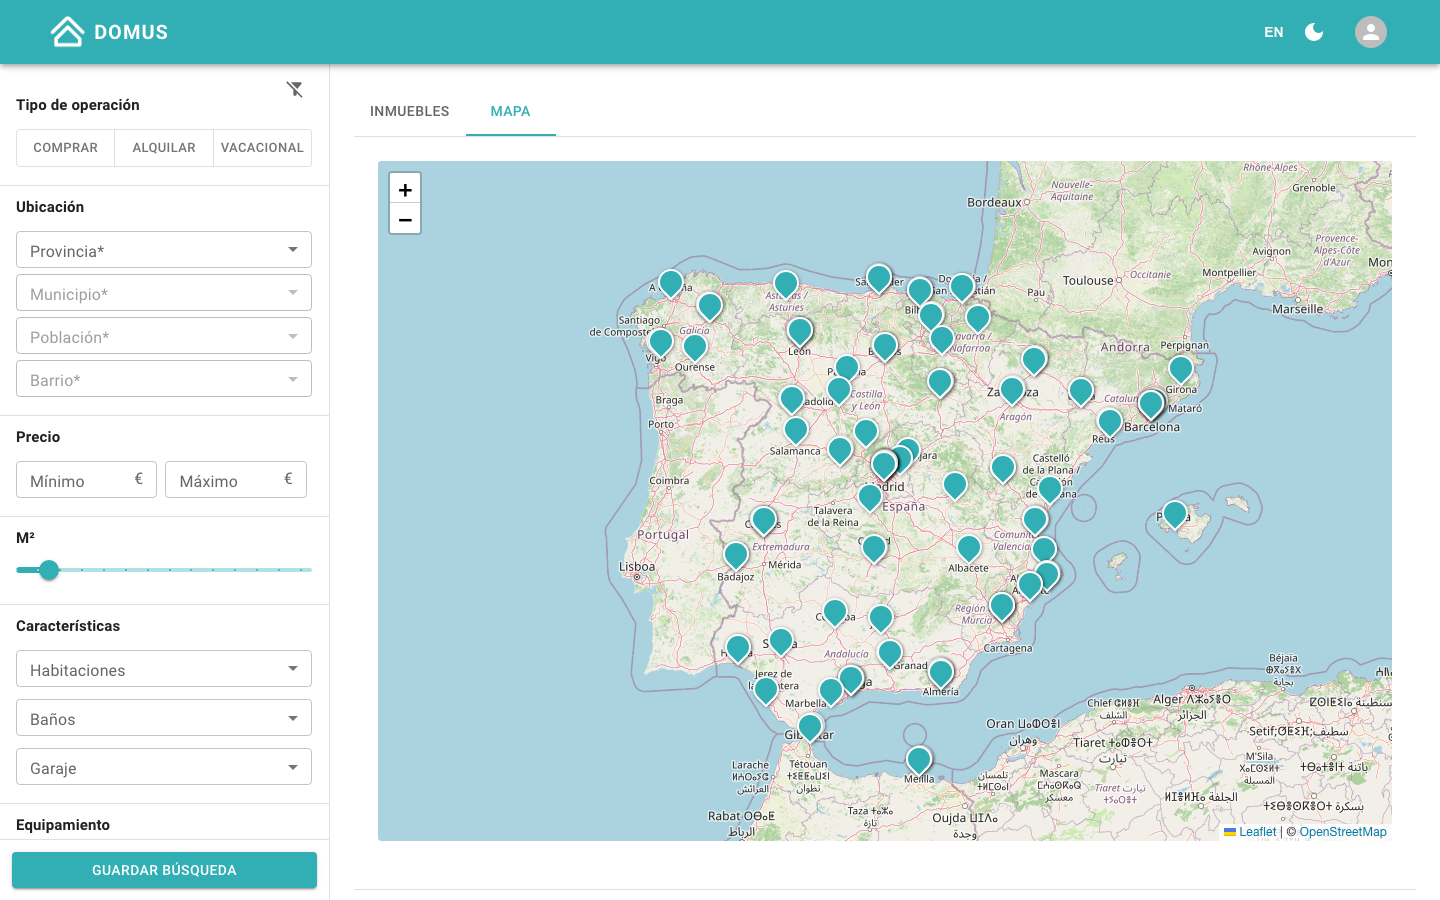
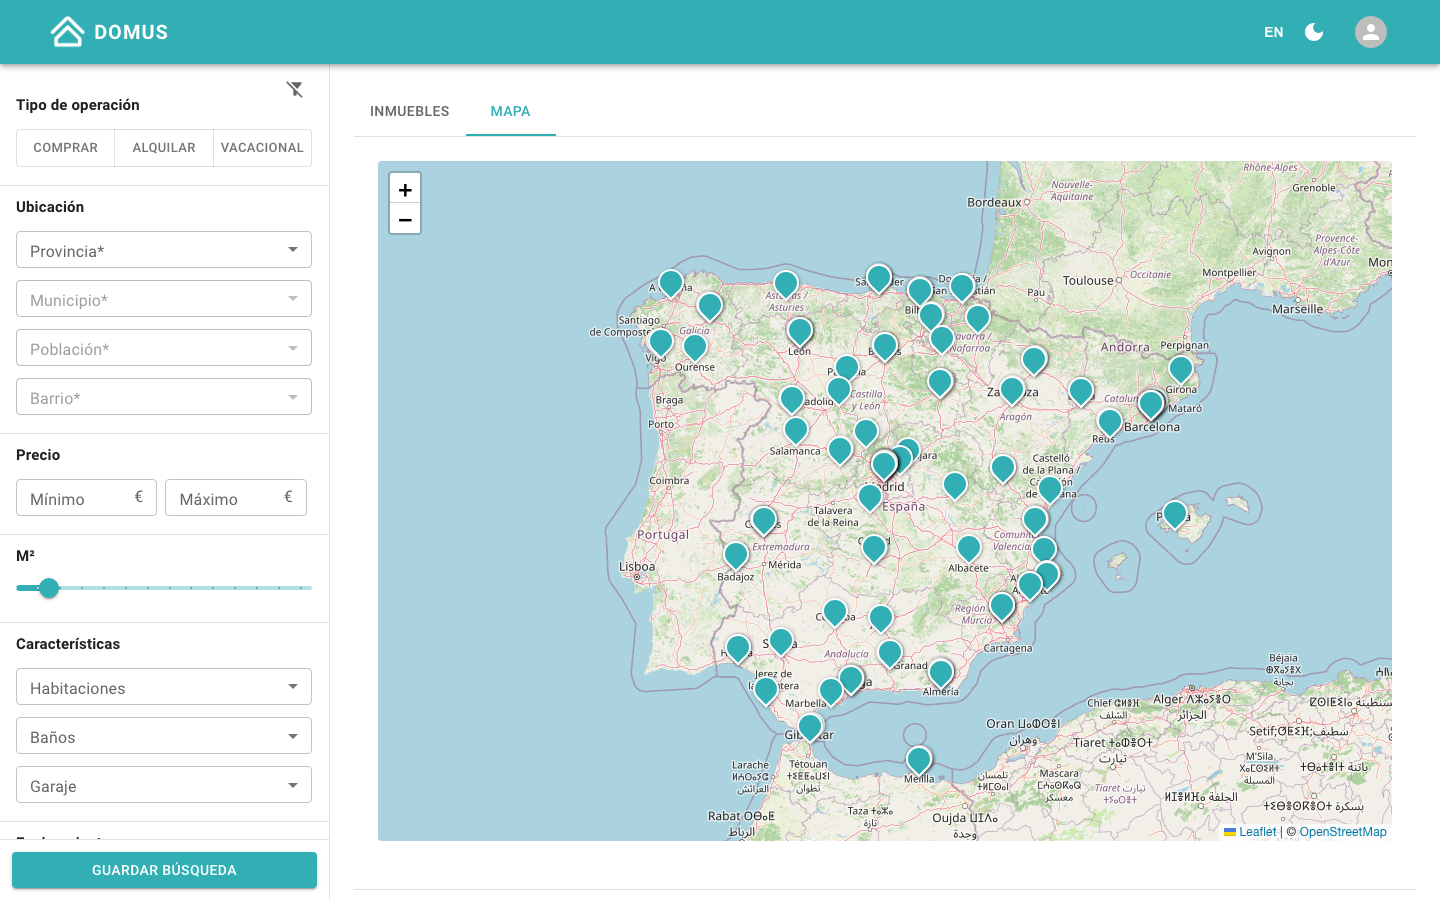
feat: filtro de operación múltiple y ajustes finales de móvil
- Comprar/Alquilar/Vacacional admite selección múltiple; al ser un
  criterio excluyente queda fuera del cálculo de relevancia y el modo
  'mayor relevancia' lo sigue aplicando como filtro duro
- El % de coincidencia solo aparece con criterios reales activos
- Chips de la card con salto de línea propio; la fecha conserva su
  esquina superior derecha
- Avatar de la barra con margen simétrico al del icono de filtros
- Menú de cuenta: iconos unificados y 'Publicar inmueble' bajo Mi perfil
- Capturas de documentación actualizadas

diff --git a/frontend/src/components/HomePage/Header/Header.jsx b/frontend/src/components/HomePage/Header/Header.jsx
@@ -3,6 +3,9 @@ import { useNavigate } from 'react-router-dom';
 import { styled } from '@mui/material/styles';
 import { AppBar, Toolbar, IconButton, Typography, Menu, MenuItem, Avatar, Box, Divider, ListItemIcon, Tooltip, Container } from '@mui/material';
 import LogoutIcon from '@mui/icons-material/Logout';
+import LoginIcon from '@mui/icons-material/Login';
+import PersonIcon from '@mui/icons-material/Person';
+import PersonAddIcon from '@mui/icons-material/PersonAdd';
 import MenuIcon from '@mui/icons-material/Menu';
 import { AuthContext } from '../../Contexts/AuthContext';
 import HomeIcon from '@mui/icons-material/Home';
@@ -109,7 +112,8 @@ export const Header = ({component}) => {
             <IconButton
               onClick={handleClick}
               size="small"
-              sx={{ ml: 2 }}
+              // Mirrors the left inset of the drawer toggle on mobile
+              sx={{ ml: 2, mr: { xs: '-12px', sm: 0 } }}
               aria-controls={open ? 'account-menu' : undefined}
               aria-haspopup="true"
               aria-expanded={open ? 'true' : undefined}
@@ -160,14 +164,6 @@ export const Header = ({component}) => {
           anchorOrigin={{ horizontal: 'right', vertical: 'bottom' }}
         >
 
-          {/* Publishing entry mirrors the floating action button; guests are
-              routed to the login first */}
-          <MenuItem onClick={() => navigate(isLoggedIn ? "/addhousing" : "/login")}>
-            <ListItemIcon>
-              <AddIcon fontSize="small" />
-            </ListItemIcon>
-            {t('publishProperty')}
-          </MenuItem>
           <MenuItem onClick={toggleLanguage} sx={{ display: { xs: 'flex', sm: 'none' } }}>
             <ListItemIcon>
               <LanguageIcon fontSize="small" />
@@ -186,8 +182,19 @@ export const Header = ({component}) => {
               <MenuItem onClick={() => (
                 navigate("/userprofile")
               )}>
-                <Avatar sx={{ width: 32, height: 32 }} src={profile.profilePicture} /> {t('myProfile')}
+                <ListItemIcon>
+                  <PersonIcon fontSize="small" />
+                </ListItemIcon>
+                {t('myProfile')}
               </MenuItem>
+          {/* Publishing entry mirrors the floating action button; guests are
+              routed to the login first */}
+          <MenuItem onClick={() => navigate(isLoggedIn ? "/addhousing" : "/login")}>
+            <ListItemIcon>
+              <AddIcon fontSize="small" />
+            </ListItemIcon>
+            {t('publishProperty')}
+          </MenuItem>
               <Divider />
               <MenuItem onClick={logout}>
                 <ListItemIcon>
@@ -205,8 +212,19 @@ export const Header = ({component}) => {
                 Iniciar sesión
               </MenuItem>
               <MenuItem onClick={() => navigate("/register")}>
-                <Avatar sx={{ width: 32, height: 32 }} /> {t('register')}
+                <ListItemIcon>
+                  <PersonAddIcon fontSize="small" />
+                </ListItemIcon>
+                {t('register')}
               </MenuItem>
+          {/* Publishing entry mirrors the floating action button; guests are
+              routed to the login first */}
+          <MenuItem onClick={() => navigate(isLoggedIn ? "/addhousing" : "/login")}>
+            <ListItemIcon>
+              <AddIcon fontSize="small" />
+            </ListItemIcon>
+            {t('publishProperty')}
+          </MenuItem>
             </div>
           )}
         </Menu>

diff --git a/frontend/src/components/MainView/HousingList/Card/HouseCard.jsx b/frontend/src/components/MainView/HousingList/Card/HouseCard.jsx
@@ -88,16 +88,18 @@ export default function HouseCard({ _id, user, showRealEstateLogo, province, mun
         <span style={{ height: '100%', display: 'flex', flexDirection: 'column', justifyContent: 'space-between' }}>
           {/* TOP, CENTER */}
           <Card style={{ flex: '1 0 auto', display: 'flex', flexDirection: 'column', margin: '0px 0px 8px 0px' }}>
-            <div style={{ display: 'flex', alignItems: 'center', justifyContent: 'space-between', margin: '10px 10px 8px 5px' }}>
-              <div style={{ display: 'inline-flex' }}>
+            {/* Chips wrap onto a second row when needed; the date keeps its
+                top-right spot and never gets pushed out */}
+            <div style={{ display: 'flex', alignItems: 'flex-start', justifyContent: 'space-between', margin: '10px 10px 8px 5px' }}>
+              <div style={{ display: 'flex', flexWrap: 'wrap', gap: '6px' }}>
               {
                 <>
-                  <Chip label={t(`transaction.${transaction}`, {ns:"housing"})} color="primary" variant="contained" size="small" style={{ marginRight: '15px' }} />
-                  <Chip label={t(`type.${type}`, {ns:"housing"})} color="primary" variant="outlined" size="small" style={{ marginRight: '15px' }} />
-                  {pool ? <Chip label="Piscina" color="primary" variant="outlined" size="small" style={{ marginRight: '15px' }} />
-                    : terrace ? <Chip label="Terraza" color="primary" variant="outlined" size="small" style={{ marginRight: '15px' }} />
-                    : garden ? <Chip label="Jardín" color="primary" variant="outlined" size="small" style={{ marginRight: '15px' }} />
-                    : furnished ? <Chip label={t(`furnished.${furnished}`, {ns:"housing"})} color="primary" variant="outlined" size="small" style={{ marginRight: '15px' }} /> : null}
+                  <Chip label={t(`transaction.${transaction}`, {ns:"housing"})} color="primary" variant="contained" size="small" />
+                  <Chip label={t(`type.${type}`, {ns:"housing"})} color="primary" variant="outlined" size="small" />
+                  {pool ? <Chip label="Piscina" color="primary" variant="outlined" size="small" />
+                    : terrace ? <Chip label="Terraza" color="primary" variant="outlined" size="small" />
+                    : garden ? <Chip label="Jardín" color="primary" variant="outlined" size="small" />
+                    : furnished ? <Chip label={t(`furnished.${furnished}`, {ns:"housing"})} color="primary" variant="outlined" size="small" /> : null}
                 </>
               }
               </div>

diff --git a/frontend/src/components/MainView/HousingList/HousingList.jsx b/frontend/src/components/MainView/HousingList/HousingList.jsx
@@ -27,7 +27,11 @@ export function HousingList({ myHousingSwitch, onToggleMias }) {
   // Relevance mode scores every listing instead of excluding them
   const filtros = { transaction, meter, room, baths, garage, minPrice, maxPrice, checkbox, province, municipality, neighborhood, population };
   const esRelevancia = orden === 'relevancia';
-  const base = esRelevancia ? (housing || []) : filtraViviendas(housing, filtros);
+  // Relevance mode relaxes every criterion except the operation filter,
+  // which is exclusive and always applies
+  const base = esRelevancia
+    ? filtraViviendas(housing, { ...filtros, meter: 0, room: '', baths: '', garage: '', minPrice: '', maxPrice: '', checkbox: {}, province: undefined, municipality: undefined, population: undefined, neighborhood: undefined })
+    : filtraViviendas(housing, filtros);
   const housingFiltrado = base
     .filter((house) => (myHousingSwitch ? house.user._id === profile._id : true))
   // The signed-in user's own listings sink to the end: browsing is about
@@ -72,8 +76,9 @@ export function HousingList({ myHousingSwitch, onToggleMias }) {
 
   // With active criteria every card shows its match percentage
   // (hard-filter modes always yield 100%: they satisfy everything)
+  // The operation toggle alone does not produce a match percentage
   const hayCriterios = Boolean(
-    transaction || room || baths || garage || minPrice || maxPrice || Number(meter) > 0 ||
+    room || baths || garage || minPrice || maxPrice || Number(meter) > 0 ||
     province || municipality || population || neighborhood ||
     Object.values(checkbox).some(Boolean)
   );

diff --git a/frontend/src/utils/filtraViviendas.js b/frontend/src/utils/filtraViviendas.js
@@ -9,7 +9,7 @@ export function filtraViviendas(housing, filtros) {
   } = filtros;
 
   return (housing || []).filter((house) => {
-    const operacion = transaction ? house.transaction === transaction : true;
+    const operacion = transaction?.length ? transaction.includes(house.transaction) : true;
     const habitaciones = room ? house.rooms >= parseInt(room) : true;
     const metros = house.squareMeters >= meter;
     const banos = baths ? house.baths >= parseInt(baths) : true;
@@ -44,12 +44,13 @@ export function filtraViviendas(housing, filtros) {
  */
 export function puntuaRelevancia(house, filtros) {
   const {
-    transaction, meter, room, baths, garage, minPrice, maxPrice, checkbox,
+    meter, room, baths, garage, minPrice, maxPrice, checkbox,
     province, municipality, neighborhood, population,
   } = filtros;
 
+  // The operation filter is exclusive by nature (a sale listing can never
+  // satisfy a rent search), so it never takes part in the score
   const criterios = [];
-  if (transaction) criterios.push(house.transaction === transaction);
   if (room) criterios.push(house.rooms >= parseInt(room));
   if (Number(meter) > 0) criterios.push(house.squareMeters >= meter);
   if (baths) criterios.push(house.baths >= parseInt(baths));

diff --git a/frontend/src/components/FilterHousing/index.jsx b/frontend/src/components/FilterHousing/index.jsx
@@ -23,7 +23,8 @@ import { GEOAPI_KEY, GEOAPI_URL } from '../../config';
 
 /**
  * Primary filter of the panel: buy / rent / vacation rental.
- * Selecting the active option again clears the choice (show everything).
+ * Multiple options can be active at once (e.g. buy and rent together);
+ * an empty selection shows every listing.
  */
 export function TransactionFilter() {
   const { t } = useTranslation('ui');
@@ -31,12 +32,11 @@ export function TransactionFilter() {
 
   return (
     <ToggleButtonGroup
-      exclusive
       fullWidth
       size="small"
       color="primary"
-      value={transaction || null}
-      onChange={(_e, value) => setTransaction(value || '')}
+      value={transaction || []}
+      onChange={(_e, value) => setTransaction(value || [])}
       sx={{ width: '90%', ml: '1em', my: 0.75 }}
     >
       <ToggleButton value="sale">{t('buy')}</ToggleButton>

diff --git a/frontend/src/components/MainView/Filters/Filters.jsx b/frontend/src/components/MainView/Filters/Filters.jsx
@@ -27,7 +27,7 @@ function Filters(props) {
   };
 
   const hayFiltros = () =>
-    transaction || province || municipality || population || neighborhood ||
+    transaction?.length || province || municipality || population || neighborhood ||
     minPrice || maxPrice || room || baths || garage || Number(meter) > 0 ||
     Object.values(checkbox).some(Boolean);
 
@@ -45,7 +45,7 @@ function Filters(props) {
     try {
       await addRequest({
         userId,
-        transaction: transaction || "sale",
+        transaction: transaction?.[0] || "sale",
         community: province?.CCOM ? { CCOM: province.CCOM } : {},
         province: province || {},
         municipality: municipality || {},

diff --git a/frontend/src/components/FilterHousing/HousingContextFilter.jsx b/frontend/src/components/FilterHousing/HousingContextFilter.jsx
@@ -3,7 +3,7 @@ import React, { createContext, useState } from 'react';
 const HousingContextFilter = createContext();
 
 export function InmueblesProvider({ children }) {
-  const [transaction, setTransaction] = useState('');
+  const [transaction, setTransaction] = useState([]);
   const [room, setRoom] = useState('');
   const [baths, setBaths] = useState('');
   const [meter, setMeter] = useState(0); // no minimum by default
@@ -28,7 +28,7 @@ export function InmueblesProvider({ children }) {
   const [population, setPopulation] = useState();
 
   const resetFilters = () => {
-    setTransaction('');
+    setTransaction([]);
     setMeter(0);
     setRoom('');
     setBaths('');
